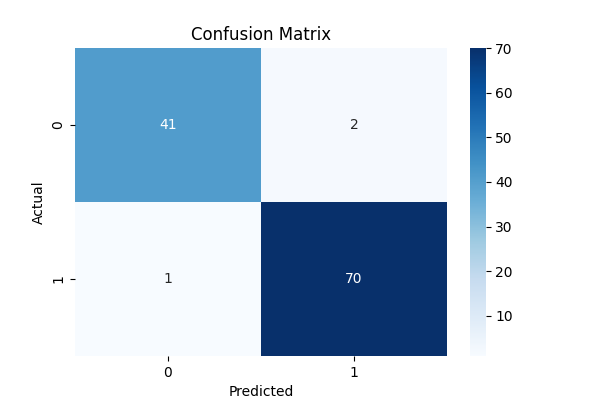
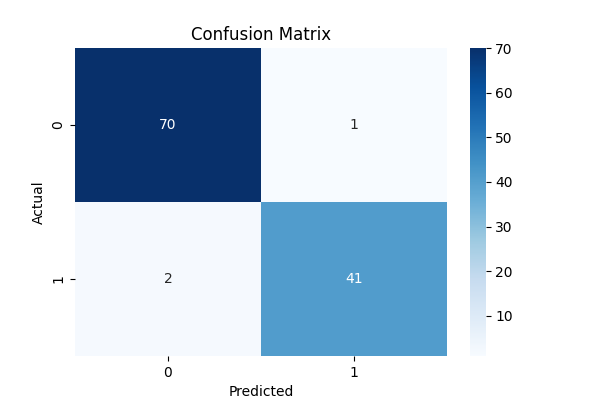
used the downloaded data this time

Changed region(s): [[0.12, 0.12, 0.75, 0.9], [0.57, 0.3, 0.6, 0.33], [0.27, 0.69, 0.3, 0.72]]

diff --git a/Task 4/logistic_regression.py b/Task 4/logistic_regression.py
@@ -9,10 +9,18 @@ from sklearn.linear_model import LogisticRegression
 from sklearn.metrics import (confusion_matrix, classification_report,
                              roc_curve, roc_auc_score, precision_score, recall_score)
 
-# Load dataset
-data = load_breast_cancer()
-X = pd.DataFrame(data.data, columns=data.feature_names)
-y = pd.Series(data.target)
+# Load dataset from CSV
+df = pd.read_csv('breast_cancer.csv')
+
+# Drop unnecessary columns (like ID or unnamed index if present)
+df.drop(columns=['id', 'Unnamed: 32'], inplace=True, errors='ignore')
+
+# Encode target: 'M' (Malignant) → 1, 'B' (Benign) → 0
+df['diagnosis'] = df['diagnosis'].map({'M': 1, 'B': 0})
+
+# Separate features and target
+X = df.drop('diagnosis', axis=1)
+y = df['diagnosis']
 
 # Train-test split
 X_train, X_test, y_train, y_test = train_test_split(X, y, test_size=0.2, random_state=42)
